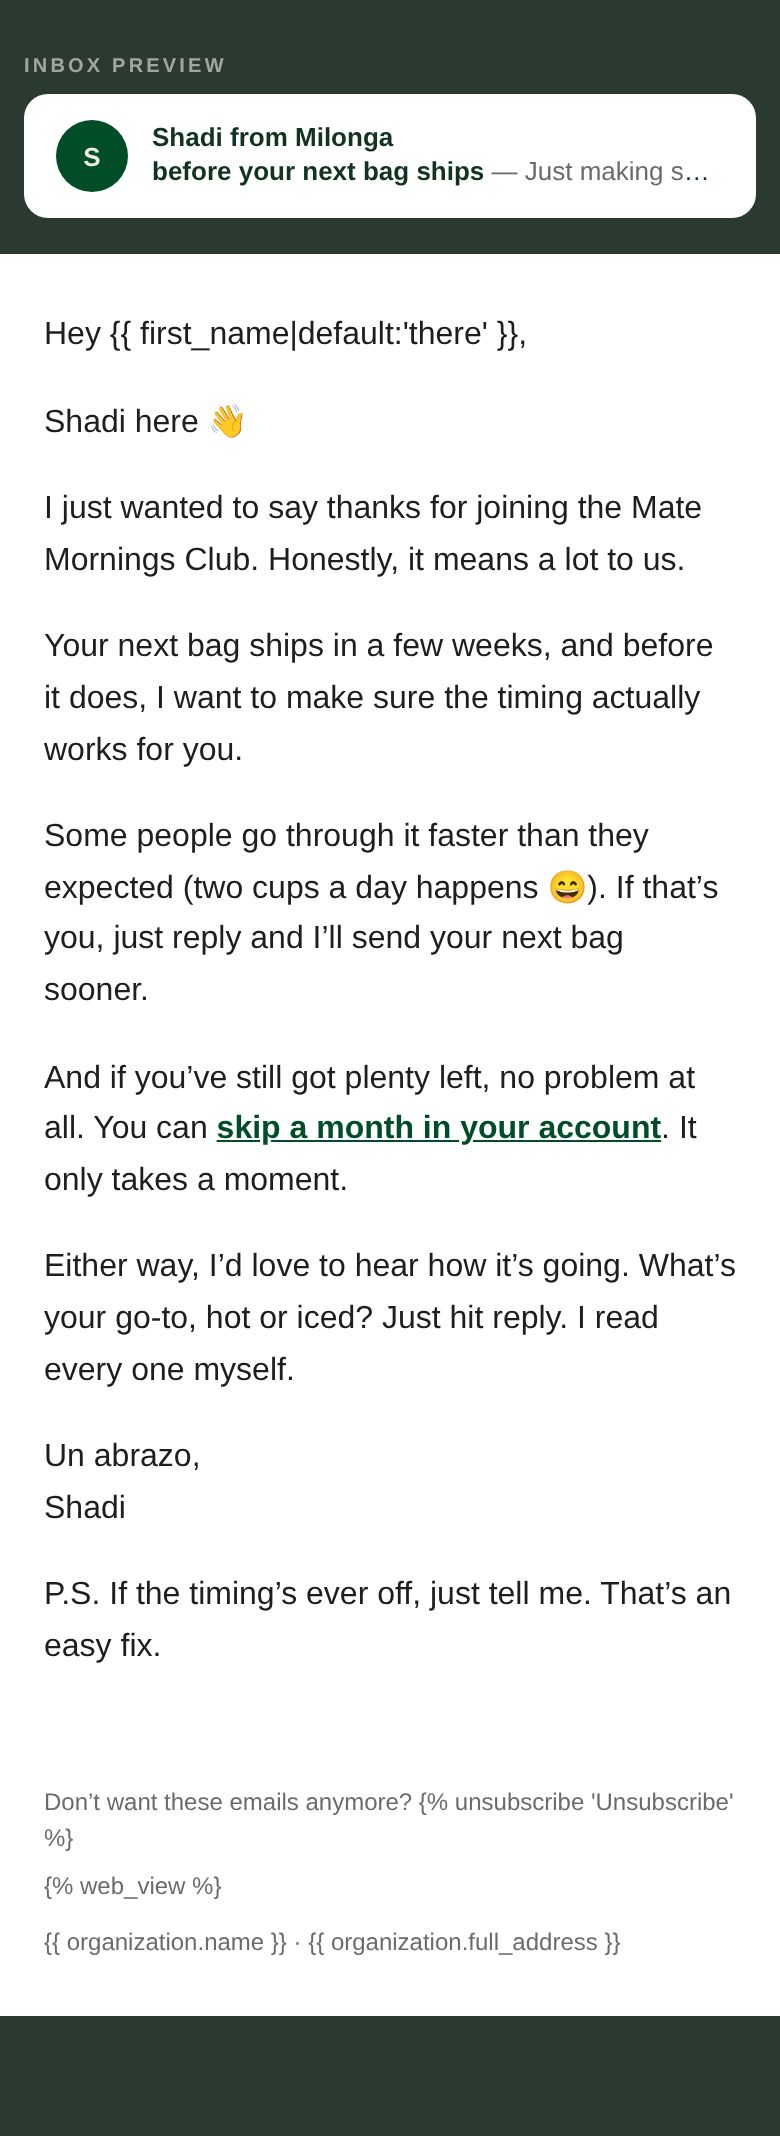
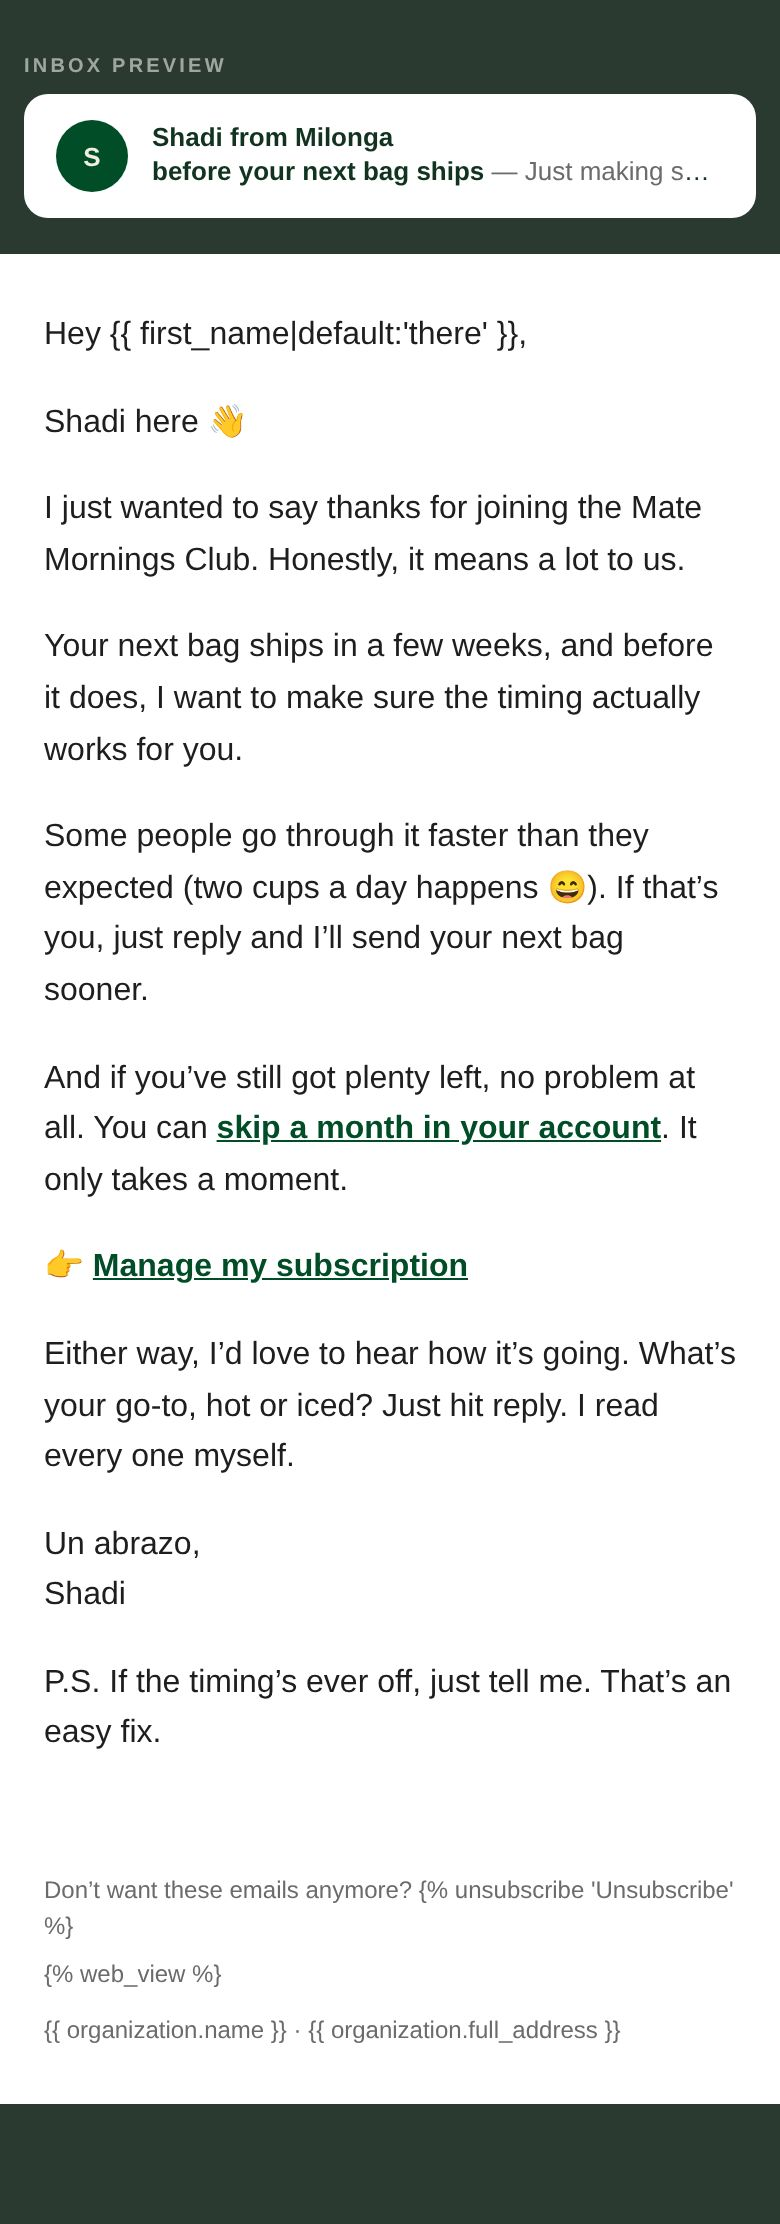
Subscribers E2: each subscriber's own Appstle portal link
Claude-Session: https://claude.ai/code/session_01NhEtXPnfeCJfN73SqBkUZ5

diff --git a/email-ds/exports/klaviyo/sub1-e2/sub1-e2.html b/email-ds/exports/klaviyo/sub1-e2/sub1-e2.html
@@ -28,7 +28,8 @@
 <p style="margin:0 0 18px;">I just wanted to say thanks for joining the Mate Mornings Club. Honestly, it means a lot to us.</p>
 <p style="margin:0 0 18px;">Your next bag ships in a few weeks, and before it does, I want to make sure the timing actually works for you.</p>
 <p style="margin:0 0 18px;">Some people go through it faster than they expected (two cups a day happens 😄). If that&rsquo;s you, just reply and I&rsquo;ll send your next bag sooner.</p>
-<p style="margin:0 0 18px;">And if you&rsquo;ve still got plenty left, no problem at all. You can <a href="https://milonga.life/apps/subscriptions" target="_blank" style="color:#004D27;font-weight:bold;text-decoration:underline;">skip a month in your account</a>. It only takes a moment.</p>
+<p style="margin:0 0 18px;">And if you&rsquo;ve still got plenty left, no problem at all. You can <a href="{{ event.manageSubscriptionLink|default:'https://milonga.life/apps/subscriptions' }}" target="_blank" style="color:#004D27;font-weight:bold;text-decoration:underline;">skip a month in your account</a>. It only takes a moment.</p>
+<p style="margin:0 0 18px;">👉 <a href="{{ event.manageSubscriptionLink|default:'https://milonga.life/apps/subscriptions' }}" target="_blank" style="color:#004D27;font-weight:bold;text-decoration:underline;">Manage my subscription</a></p>
 <p style="margin:0 0 18px;">Either way, I&rsquo;d love to hear how it&rsquo;s going. What&rsquo;s your go-to, hot or iced? Just hit reply. I read every one myself.</p>
 <p style="margin:0 0 18px;">Un abrazo,<br>Shadi</p>
 <p style="margin:6px 0 0;">P.S. If the timing&rsquo;s ever off, just tell me. That&rsquo;s an easy fix.</p>

diff --git a/email-ds/refine/sub1-e2.html b/email-ds/refine/sub1-e2.html
@@ -12,7 +12,8 @@
 <p style="margin:0 0 18px;">I just wanted to say thanks for joining the Mate Mornings Club. Honestly, it means a lot to us.</p>
 <p style="margin:0 0 18px;">Your next bag ships in a few weeks, and before it does, I want to make sure the timing actually works for you.</p>
 <p style="margin:0 0 18px;">Some people go through it faster than they expected (two cups a day happens 😄). If that&rsquo;s you, just reply and I&rsquo;ll send your next bag sooner.</p>
-<p style="margin:0 0 18px;">And if you&rsquo;ve still got plenty left, no problem at all. You can <a href="https://milonga.life/apps/subscriptions" target="_blank" style="color:#004D27;font-weight:bold;text-decoration:underline;">skip a month in your account</a>. It only takes a moment.</p>
+<p style="margin:0 0 18px;">And if you&rsquo;ve still got plenty left, no problem at all. You can <a href="{{ event.manageSubscriptionLink|default:'https://milonga.life/apps/subscriptions' }}" target="_blank" style="color:#004D27;font-weight:bold;text-decoration:underline;">skip a month in your account</a>. It only takes a moment.</p>
+<p style="margin:0 0 18px;">👉 <a href="{{ event.manageSubscriptionLink|default:'https://milonga.life/apps/subscriptions' }}" target="_blank" style="color:#004D27;font-weight:bold;text-decoration:underline;">Manage my subscription</a></p>
 <p style="margin:0 0 18px;">Either way, I&rsquo;d love to hear how it&rsquo;s going. What&rsquo;s your go-to, hot or iced? Just hit reply. I read every one myself.</p>
 <p style="margin:0 0 18px;">Un abrazo,<br>Shadi</p>
 <p style="margin:6px 0 0;">P.S. If the timing&rsquo;s ever off, just tell me. That&rsquo;s an easy fix.</p>
